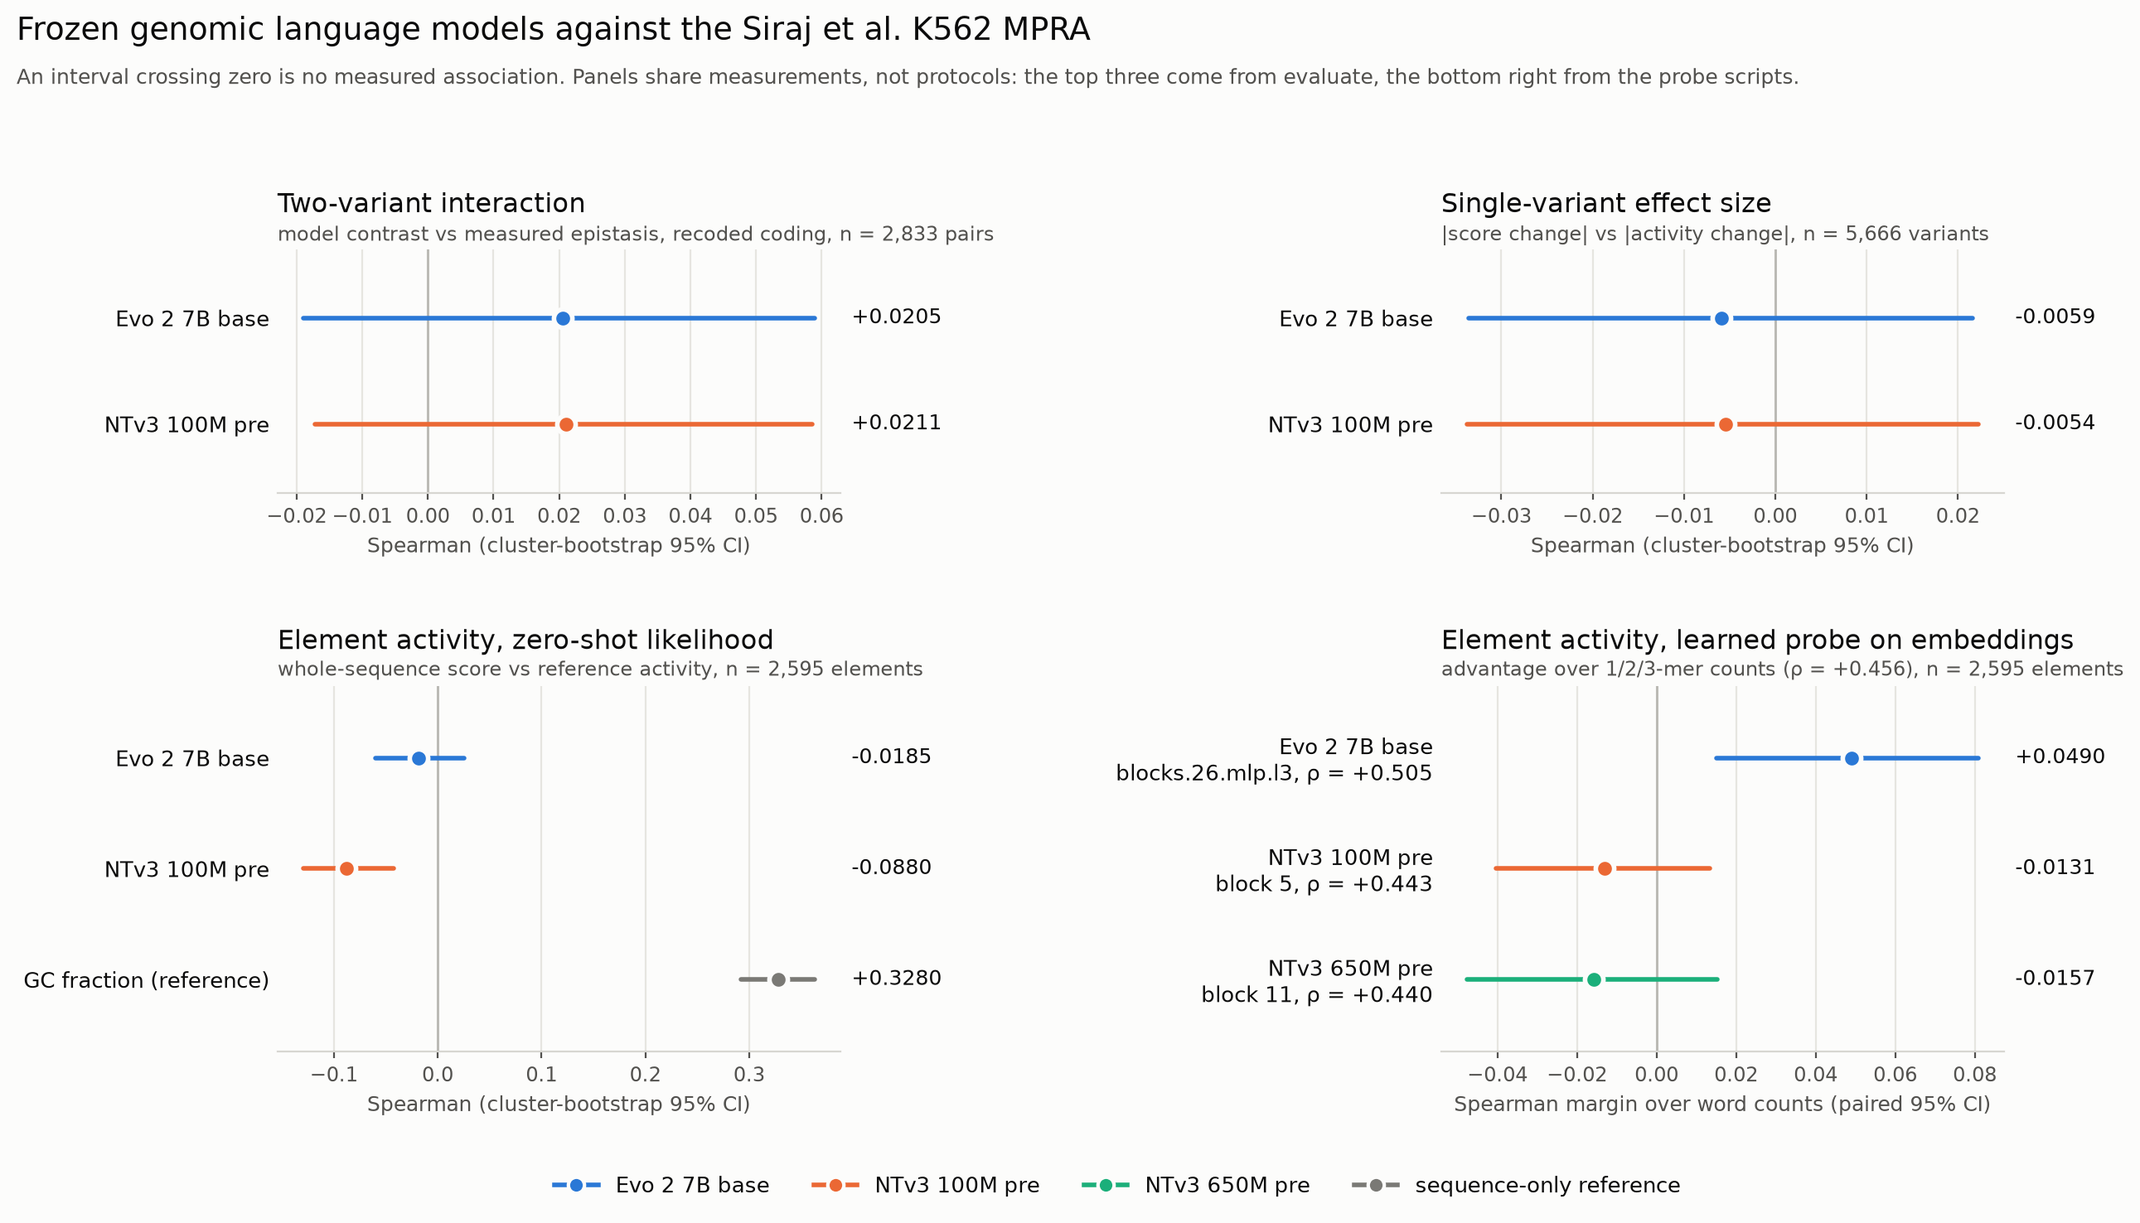
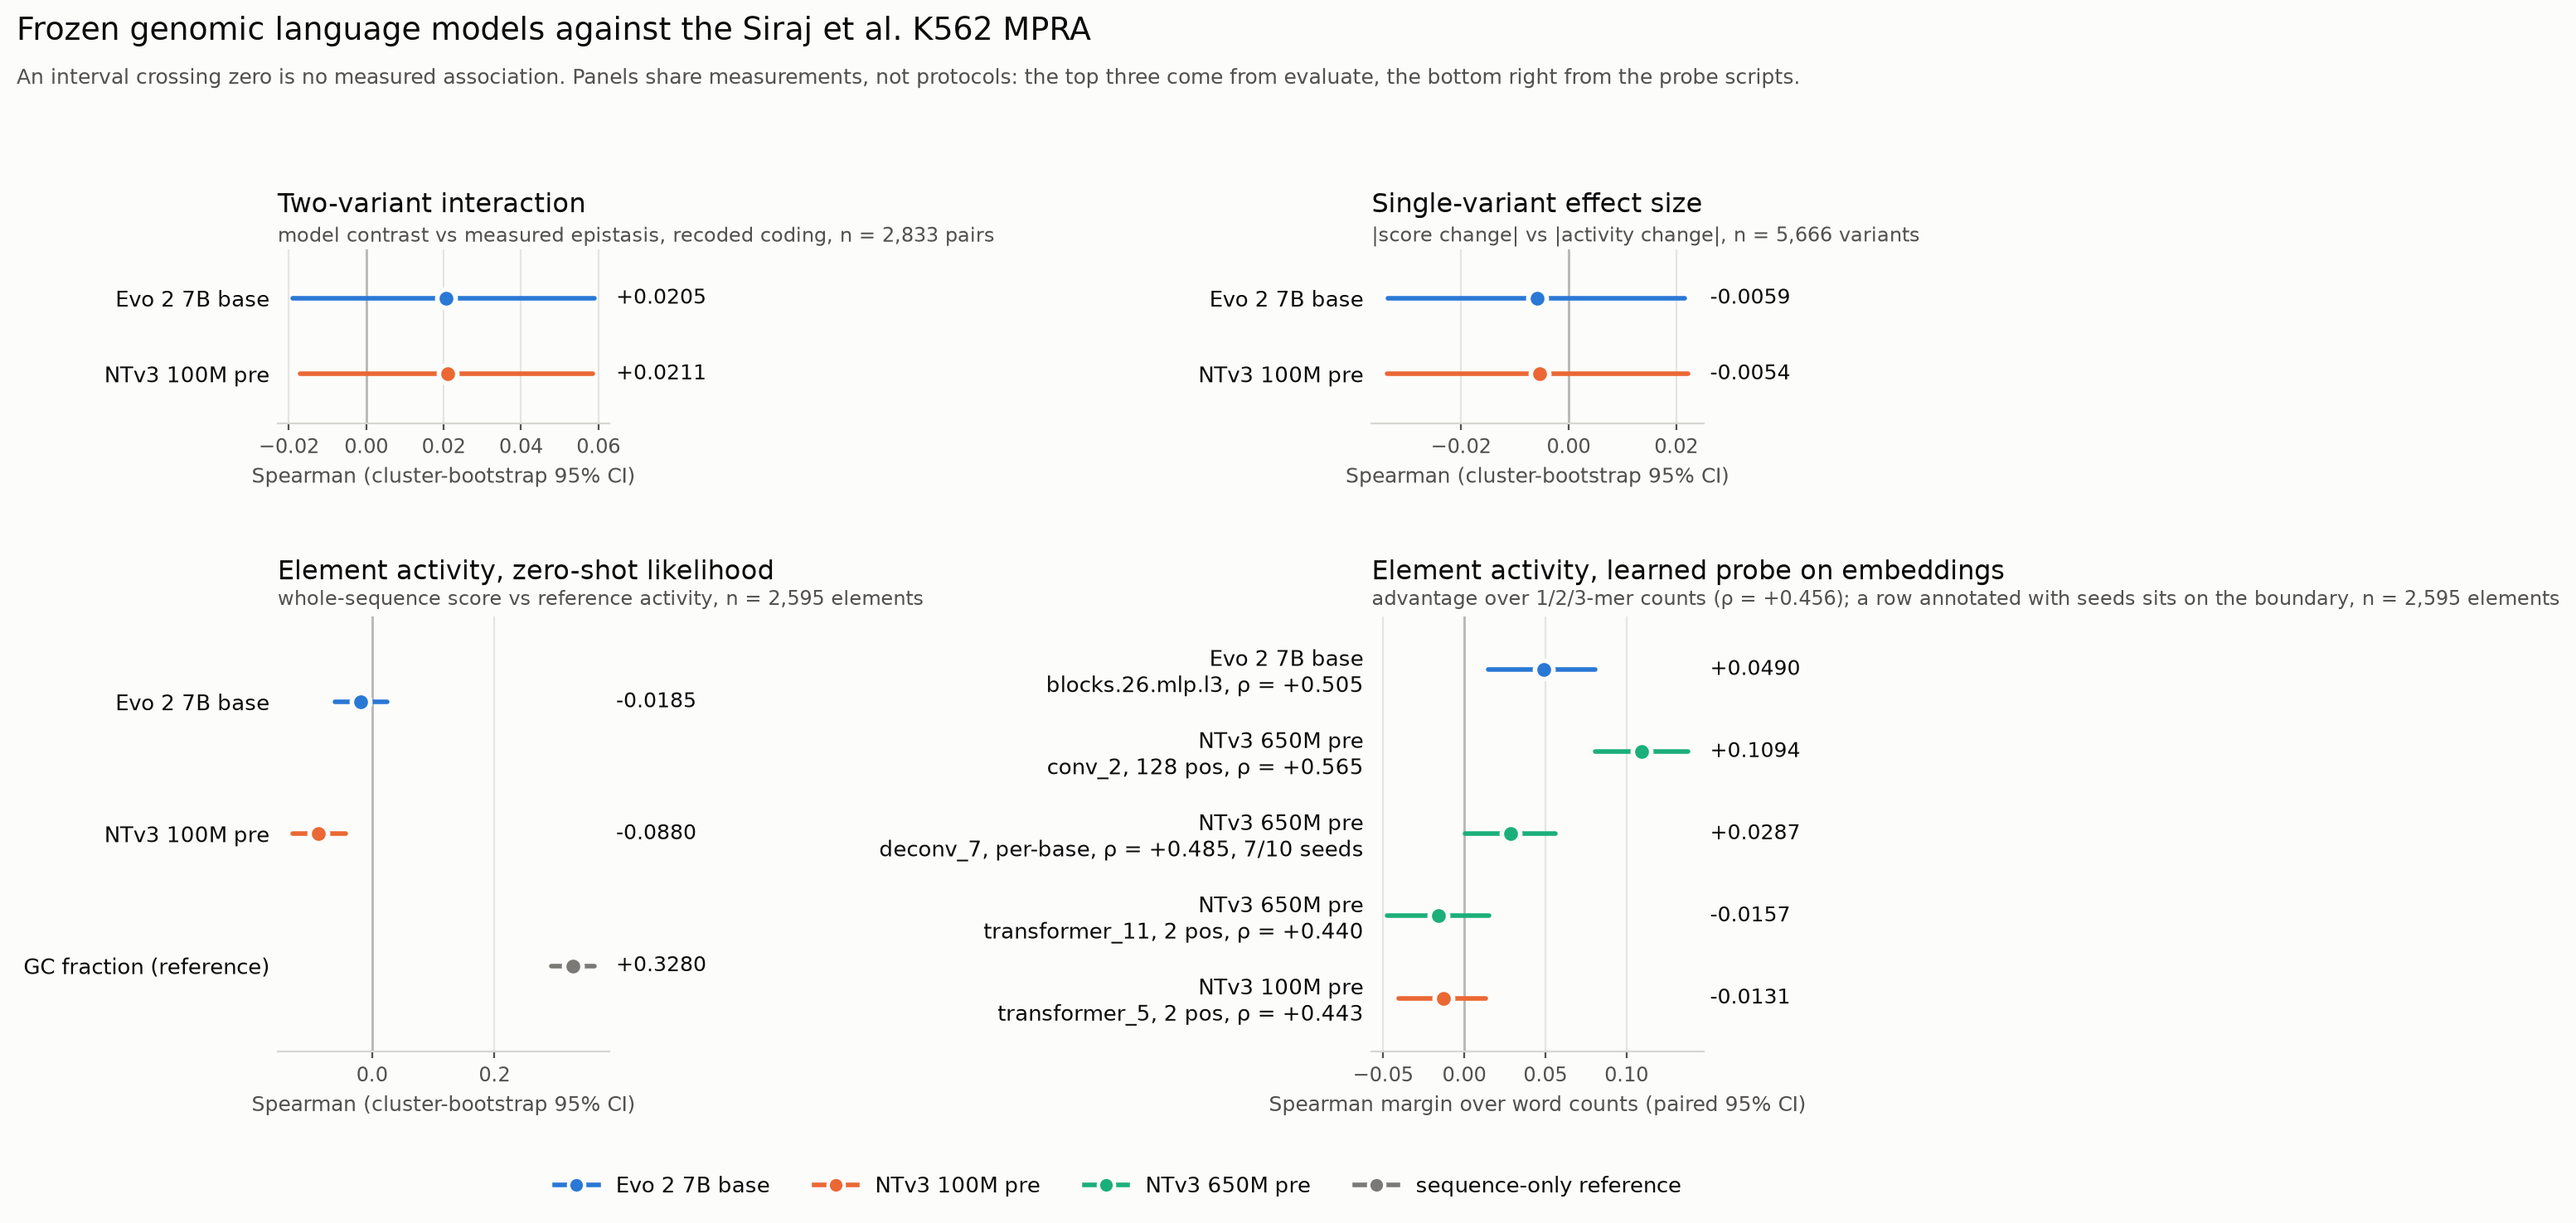
Guard the probe verdict, label element figures by model, refit the comparison
Three fixes, all verified on CPU here. The two remaining items from this pass,
regenerating the NTv3 element figure with the corrected label and adding conv_2
to the README, are not done.

make_element_plot hardcoded "Evo 2 log-likelihood" in the axis label, the panel
title and the bar label, so results/ntv3_100m_pre/elements_gc_kmer.png captioned
NTv3's scores as Evo 2. The label now threads down from evaluate's --label. The
committed NTv3 figure still carries the old caption until evaluate is rerun.

evo_probe.probe and ntv3_probe.probe printed a pass/fail off a single n_boot=1000
lower bound, which is how results/ntv3_650m_deconv/probe.txt came to assert "The
information is in there, and it beats word counts" on a margin that clears zero on
only 7 of 10 bootstrap seeds. Both now call report_margin, which re-bootstraps
under 10 seeds whenever the bound lands within 0.01 of zero and refuses a verdict
when the seeds disagree. Tested end to end on that directory: it prints the 7/10
spread and the boundary warning instead of a win. A clear margin is unaffected.

model_comparison.py computed its probe panel by regex over probe.txt, which could
only ever show layers that had a probe.txt. The layer that matters for NTv3 lives
in the sweep, so the panel now fits from the matrices directly and caches to
results/probe_margins.json (--refresh-probes refits). Each source reads its own
elements.csv, so ordering differences between runs cannot misalign activities.
[…]

diff --git a/model_comparison.py b/model_comparison.py
@@ -12,9 +12,9 @@ Run:  python3 model_comparison.py --out results/model_comparison.png
 
 import argparse
 import json
-import re
 from pathlib import Path
 
+import pandas as pd
 import matplotlib
 matplotlib.use("Agg")
 import matplotlib.pyplot as plt
@@ -26,20 +26,60 @@ SURFACE, INK, INK_SOFT = "#fcfcfb", "#0b0b0b", "#52514e"
 
 SCORE_RUNS = (("Evo 2 7B base", "results/evo2_7b_base/metrics.json"),
               ("NTv3 100M pre", "results/ntv3_100m_pre/metrics.json"))
-PROBE_RUNS = (("Evo 2 7B base", "results/evo_probe/probe.txt", "blocks.26.mlp.l3"),
-              ("NTv3 100M pre", "results/ntv3_100m_final/probe.txt", "block 5"),
-              ("NTv3 650M pre", "results/ntv3_650m_final/probe.txt", "block 11"))
+# Computed from the matrices, not parsed out of probe.txt, because the layer that matters
+# for NTv3 turned out to be in the conv tower and only the sweep holds it. Cached to
+# PROBE_CACHE so the figure redraws without refitting.
+PROBE_CACHE = Path("results/probe_margins.json")
+PROBE_RUNS = (
+    ("Evo 2 7B base", "results/evo_probe", "X_mean.npy", "blocks.26.mlp.l3"),
+    ("NTv3 650M pre", "results/ntv3_650m_sweep", "X_mean_L1.npy", "conv_2, 128 pos"),
+    ("NTv3 650M pre", "results/ntv3_650m_deconv", "X_mean.npy", "deconv_7, per-base"),
+    ("NTv3 650M pre", "results/ntv3_650m_final", "X_mean.npy", "transformer_11, 2 pos"),
+    ("NTv3 100M pre", "results/ntv3_100m_final", "X_mean.npy", "transformer_5, 2 pos"),
+)
 
 
-def read_probe(path):
-    """Pull the probe's own Spearman and its paired margin over word counts."""
-    text = Path(path).read_text()
-    level = re.search(r"^\S.*hidden layer \(probe\)\s+([+-][\d.]+)", text, re.M)
-    margin = re.search(r"probe minus word counts:\s*([+-][\d.]+)\s*"
-                       r"95% interval \[([+-][\d.]+),\s*([+-][\d.]+)\]", text)
-    if not level or not margin:
-        raise SystemExit(f"{path} has no probe row or paired interval; re-run the probe")
-    return float(level.group(1)), tuple(float(margin.group(i)) for i in (1, 2, 3))
+def probe_margins(refresh=False):
+    """Margin over 1/2/3-mer counts for every representation, with the seed check.
+
+    Each directory brings its own elements.csv, so ordering differences between runs
+    cannot silently misalign the activities.
+    """
+    if PROBE_CACHE.exists() and not refresh:
+        return json.loads(PROBE_CACHE.read_text())
+
+    import numpy as np
+    from scipy.stats import spearmanr
+    from evo_probe import elements, kmers, out_of_fold, paired_interval
+    from evo_probe import VERDICT_MARGIN, VERDICT_SEEDS
+
+    table = elements().set_index("sequence_id")
+    rows = []
+    for label, directory, matrix, layer in PROBE_RUNS:
+        directory = Path(directory)
+        element_rows = pd.read_csv(directory / "elements.csv")
+        y = element_rows.activity.values
+        groups = element_rows.group.values
+        sequences = table.seq.loc[element_rows.sequence_id].values
+        words = out_of_fold(kmers(sequences), y, groups, 5)
+        probe = out_of_fold(np.load(directory / matrix), y, groups, 5)
+        margin = float(spearmanr(probe, y).statistic - spearmanr(words, y).statistic)
+        low, high = paired_interval(probe, words, y, groups, 1000, 0)
+        cleared = None
+        if abs(low) < VERDICT_MARGIN:
+            lows = [low] + [paired_interval(probe, words, y, groups, 1000, seed)[0]
+                            for seed in range(1, VERDICT_SEEDS)]
+            cleared = sum(1 for value in lows if value > 0)
+        rows.append({"label": label, "layer": layer, "n": int(len(y)),
+                     "rho": float(spearmanr(probe, y).statistic),
+                     "words": float(spearmanr(words, y).statistic),
+                     "margin": margin, "low": float(low), "high": float(high),
+                     "seeds_clearing": cleared, "seeds": VERDICT_SEEDS})
+        print(f"  {label} {layer}: {margin:+.4f} [{low:+.4f}, {high:+.4f}]"
+              + (f"  {cleared}/{VERDICT_SEEDS} seeds" if cleared is not None else ""), flush=True)
+    PROBE_CACHE.parent.mkdir(parents=True, exist_ok=True)
+    PROBE_CACHE.write_text(json.dumps(rows, indent=2) + "\n")
+    return rows
 
 
 def collect():
@@ -70,11 +110,15 @@ def collect():
                    "xlabel": "Spearman (cluster-bootstrap 95% CI)"})
 
     rows = []
-    for name, path, layer in PROBE_RUNS:
-        level, (margin, low, high) = read_probe(path)
-        rows.append((f"{name}\n{layer}, ρ = {level:+.3f}", COLOR[name], margin, [low, high]))
+    for entry in probe_margins():
+        note = "" if entry["seeds_clearing"] in (None, entry["seeds"], 0) \
+            else f", {entry['seeds_clearing']}/{entry['seeds']} seeds"
+        rows.append((f"{entry['label']}\n{entry['layer']}, ρ = {entry['rho']:+.3f}{note}",
+                     COLOR[entry["label"]], entry["margin"], [entry["low"], entry["high"]]))
+    words = probe_margins()[0]["words"]
     panels.append({"title": "Element activity, learned probe on embeddings", "rows": rows,
-                   "note": "advantage over 1/2/3-mer counts (ρ = +0.456), n = 2,595 elements",
+                   "note": f"advantage over 1/2/3-mer counts (ρ = {words:+.3f}); a row "
+                           "annotated with seeds sits on the boundary, n = 2,595 elements",
                    "xlabel": "Spearman margin over word counts (paired 95% CI)"})
     return panels
 
@@ -108,8 +152,13 @@ def draw_panel(axis, panel):
 def main():
     parser = argparse.ArgumentParser(description=__doc__)
     parser.add_argument("--out", default="results/model_comparison.png")
+    parser.add_argument("--refresh-probes", action="store_true", dest="refresh",
+                        help="refit the probe panel instead of reading its cache")
     args = parser.parse_args()
 
+    if args.refresh:
+        print("refitting the probe panel:")
+        probe_margins(refresh=True)
     panels = collect()
     # row heights track row counts so a two-row panel is not stretched to fill a three-row box
     heights = [max(len(p["rows"]) for p in panels[:2]), max(len(p["rows"]) for p in panels[2:])]

diff --git a/evo_epistasis.py b/evo_epistasis.py
@@ -587,12 +587,13 @@ def single_variant_report(df, n_boot=1000, seed=0):
             "scrambled_join_would_give": float(df.s_wt.std() * np.sqrt(2))}
 
 
-def make_element_plot(elements, y, gc, model, predictions, groups, path, n_boot=1000, seed=0):
+def make_element_plot(elements, y, gc, model, predictions, groups, path, n_boot=1000, seed=0,
+                     label="Evo 2"):
     """Element-level baselines: GC and k-mer counts against the model likelihood."""
     figure, axes = plt.subplots(1, 4, figsize=(17, 4.2))
     panels = ((gc, "GC fraction of the 200-mer", "GC content"),
               (predictions["kmer_1_2_3"], "out-of-fold prediction", "1/2/3-mer counts"),
-              (model, "Evo 2 log-likelihood", "Evo 2 likelihood"))
+              (model, f"{label} log-likelihood", f"{label}\nlikelihood"))
     for axis, (x, xlabel, title) in zip(axes, panels):
         axis.scatter(x, y, s=6, alpha=0.25, linewidths=0, color="#3b6ea5")
         axis.set_xlabel(xlabel)
@@ -600,7 +601,7 @@ def make_element_plot(elements, y, gc, model, predictions, groups, path, n_boot=
     axes[0].set_ylabel("measured reference activity (log2 RNA/DNA)")
 
     order = ["kmer_1_2_3", "gc", "model"]
-    labels = ["1/2/3-mer\ncounts", "GC\ncontent", "Evo 2\nlikelihood"]
+    labels = ["1/2/3-mer\ncounts", "GC\ncontent", f"{label}\nlikelihood"]
     values, lows, highs = [], [], []
     for name in order:
         prediction = predictions[name]
@@ -617,14 +618,15 @@ def make_element_plot(elements, y, gc, model, predictions, groups, path, n_boot=
     axes[3].set_ylim(min(0, min(values)) - 0.05, max(values) + 0.09)
     for axis in axes:
         axis.spines[["top", "right"]].set_visible(False)
-    figure.suptitle(f"Predicting enhancer activity from the same 200 bases (n = {len(y)} elements)", y=1.02)
+    figure.suptitle(f"{label}: predicting enhancer activity from the same 200 bases "
+                    f"(n = {len(y)} elements)", y=1.02)
     figure.tight_layout()
     figure.savefig(path, dpi=150, bbox_inches="tight")
     plt.close(figure)
     return str(path)
 
 
-def element_report(df, folds=5, n_boot=1000, seed=0, plot_path=None):
+def element_report(df, folds=5, n_boot=1000, seed=0, plot_path=None, label="Evo 2"):
     elements = (df.dropna(subset=["refref_Log2FC"]).drop_duplicates("seq_wt")
                   [["seq_wt", "s_wt", "refref_Log2FC", "refref_active", "group_id"]].reset_index(drop=True))
     if elements.groupby("seq_wt").group_id.nunique().gt(1).any():
@@ -645,7 +647,8 @@ def element_report(df, folds=5, n_boot=1000, seed=0, plot_path=None):
               "model": out_of_fold_linear(model, y, groups, folds, seed=seed),
               "kmer_1_2_3": out_of_fold_linear(kmers, y, groups, folds, ridge=True, seed=seed),
               "training_mean": mean_prediction}
-    plot = make_element_plot(elements, y, gc, model, fitted, groups, plot_path, n_boot, seed) if plot_path else None
+    plot = make_element_plot(elements, y, gc, model, fitted, groups, plot_path, n_boot, seed,
+                             label) if plot_path else None
 
     return {"n_elements": int(len(elements)), "n_active": int(active.sum()), "plot": plot,
             "raw_spearman": {
@@ -724,13 +727,13 @@ def precision_strata(df, keeps=(1.0, 0.75, 0.5, 0.25)):
     return rows
 
 
-def audit_analyses(df, audit_path, folds=5, n_boot=1000, seed=0, plot_path=None):
+def audit_analyses(df, audit_path, folds=5, n_boot=1000, seed=0, plot_path=None, label="Evo 2"):
     """Everything that needs the paper's labels and raw element activity."""
     joined = join_audit(df, audit_path)
     return {"audit": str(audit_path),
             "reproduction": reproduction_check(joined),
             "single_variants": single_variant_report(joined, n_boot, seed),
-            "elements": element_report(joined, folds, n_boot, seed, plot_path),
+            "elements": element_report(joined, folds, n_boot, seed, plot_path, label),
             "detection": detection_report(joined, folds, n_boot, seed),
             "precision_strata": precision_strata(joined),
             "libraries": joined.pair_id.str.split("|").str[0].str.split(";").str[-1].value_counts().to_dict()}
@@ -775,7 +778,8 @@ def evaluate(quartets_path, scores_path, out, label="Evo 2", folds=5, seed=0, n_
         mask = np.isfinite(se) & (se > 0) & (df.epsilon.abs() > 1.96 * se)
         result["exploratory_source_SE_subset"] = metrics(df.epsilon[mask], df.model_interaction[mask], threshold)
     if audit and Path(audit).exists():
-        result["audit_analyses"] = audit_analyses(df, audit, folds, n_boot, seed, out / "elements_gc_kmer.png")
+        result["audit_analyses"] = audit_analyses(df, audit, folds, n_boot, seed,
+                                                  out / "elements_gc_kmer.png", label)
     elif audit:
         result["audit_analyses"] = f"skipped, {audit} not found"
     (out / "metrics.json").write_text(json.dumps(result, indent=2, allow_nan=False) + "\n")

diff --git a/evo_probe.py b/evo_probe.py
@@ -145,6 +145,30 @@ def out_of_fold(X, y, groups, folds=5):
     return pred
 
 
+# A pass/fail on one bootstrap draw is not a usable instrument near zero: the NTv3 650M
+# deconv margin clears zero on 7 of 10 seeds and fails on 3. So whenever the lower bound
+# lands this close, re-bootstrap and report the spread instead of a verdict.
+VERDICT_MARGIN, VERDICT_SEEDS = 0.01, 10
+
+
+def report_margin(pred_a, pred_b, y, groups, margin, win, tie, n_boot=1000):
+    """Print the interval on rho(a) - rho(b), refusing a verdict on the boundary."""
+    low, high = paired_interval(pred_a, pred_b, y, groups, n_boot, 0)
+    print(f"probe minus word counts: {margin:+.4f}  95% interval [{low:+.4f}, {high:+.4f}]")
+    if abs(low) < VERDICT_MARGIN:
+        lows = [low] + [paired_interval(pred_a, pred_b, y, groups, n_boot, s)[0]
+                        for s in range(1, VERDICT_SEEDS)]
+        cleared = sum(1 for value in lows if value > 0)
+        print(f"lower bound over {VERDICT_SEEDS} seeds: min {min(lows):+.4f}, "
+              f"max {max(lows):+.4f}, clears zero {cleared}/{VERDICT_SEEDS}")
+        if cleared not in (0, VERDICT_SEEDS):
+            print("On the boundary: the verdict flips with the bootstrap seed. Report the "
+                  "margin and this spread, not a pass/fail.")
+            return low, high
+    print(win if low > 0 else tie)
+    return low, high
+
+
 def paired_interval(pred_a, pred_b, y, groups, n_boot=1000, seed=0):
     """Bootstrap whole groups; return the 95% interval on rho(a) - rho(b)."""
     rng = np.random.default_rng(seed)
@@ -203,12 +227,11 @@ def probe(embeddings, pooling="mean", pred=PRED, audit=AUDIT, folds=5,
           f"{np.mean(null):+.4f} +/- {np.std(null):.4f}")
 
     a, b = "Evo probe (blocks.26.mlp.l3 layer)", "DNA word counts (84 features)"
-    lo, hi = paired_interval(preds[a], preds[b], y, g)
     got = dict((r[0], r[1]) for r in rows)
-    print(f"\nprobe minus word counts: {got[a] - got[b]:+.4f}  "
-          f"95% interval [{lo:+.4f}, {hi:+.4f}]")
-    print("The information is in there, and it beats word counts." if lo > 0 else
-          "No evidence Evo's representations add anything over word counts.")
+    print()
+    report_margin(preds[a], preds[b], y, g, got[a] - got[b],
+                  "The information is in there, and it beats word counts.",
+                  "No evidence Evo's representations add anything over word counts.")
 
 
 def main():

diff --git a/ntv3_probe.py b/ntv3_probe.py
@@ -5,7 +5,7 @@ from pathlib import Path
 import numpy as np
 import pandas as pd
 
-from evo_probe import elements, kmers, out_of_fold, paired_interval, PRED, AUDIT
+from evo_probe import elements, kmers, out_of_fold, report_margin, PRED, AUDIT
 from scipy.stats import spearmanr
 
 MULTIPLE = 128
@@ -138,14 +138,12 @@ def probe(embeddings, pooling="mean", pred=PRED, audit=AUDIT, folds=5, n_permuta
     print(f"\nnoise floor from {n_permutations} label permutations: "
           f"{np.mean(shuffled):+.4f} +/- {np.std(shuffled):.4f}")
 
-    low, high = paired_interval(preds["NTv3 hidden layer (probe)"],
-                                preds["DNA word counts (84 features)"], y, g)
     margin = (spearmanr(preds["NTv3 hidden layer (probe)"], y).statistic
               - spearmanr(preds["DNA word counts (84 features)"], y).statistic)
-    print(f"probe minus word counts: {margin:+.4f}  95% interval [{low:+.4f}, {high:+.4f}]")
-    print("The information is in there, and it beats word counts."
-          if low > 0 else
-          "Not distinguishable from word counts on this evidence.")
+    report_margin(preds["NTv3 hidden layer (probe)"],
+                  preds["DNA word counts (84 features)"], y, g, margin,
+                  "The information is in there, and it beats word counts.",
+                  "Not distinguishable from word counts on this evidence.")
 
 
 def main():
